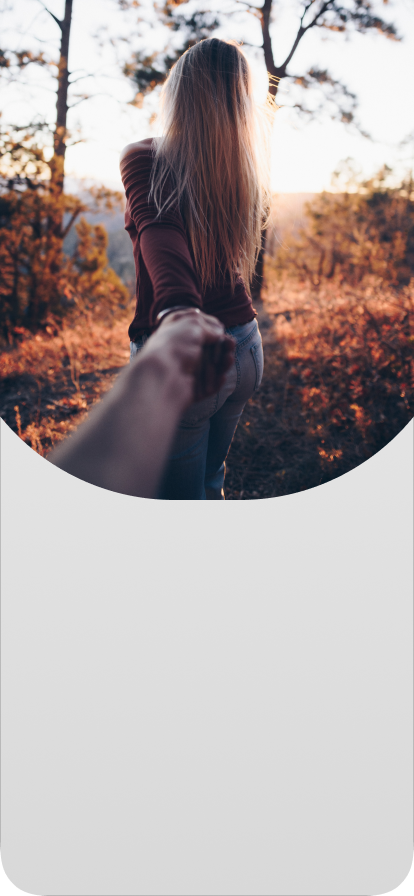
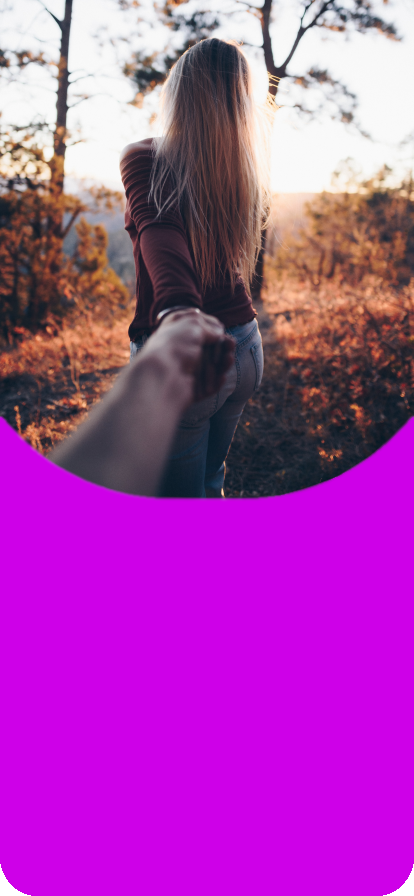
[DEV] Add buttons and change page1 background color

diff --git a/flutter_lovebank/lib/three_page_intro.dart b/flutter_lovebank/lib/three_page_intro.dart
@@ -1,4 +1,5 @@
 import 'package:flutter/material.dart';
+import 'wide_button.dart';
 
 ///The three dot indicator at the bottom of the page.
 ///  Transparent if page is passed in as 0.
@@ -85,6 +86,7 @@ class ThreePageIntro extends StatefulWidget {
   _ThreePageIntroState createState() => _ThreePageIntroState();
 }
 
+///The state of the three page intro screen widget.
 class _ThreePageIntroState extends State<ThreePageIntro> {
   int _page = 1;
 
@@ -97,15 +99,18 @@ class _ThreePageIntroState extends State<ThreePageIntro> {
   Widget build(BuildContext context) {
     Container mainContent = Container();
     String text = "";
+    String imgPath = "";
     if (_page == 1) {
         text = "Improve your relationship with measurable expresions of love";
+        imgPath = "assets/images/intro/intro-1.png";
     }
     if (_page == 2) {
         text = "Increase your love bank account by performing the tasks most important to your partner";
+        imgPath = "assets/images/intro/intro-2.png";
     }
 
     mainContent = Container(
-      padding: EdgeInsets.only(left: 60, right: 60),
+      padding: EdgeInsets.only(left: 60, right: 60, bottom: 60),
       child: Text( text,
         textAlign: TextAlign.center,
         style: TextStyle(
@@ -117,7 +122,27 @@ class _ThreePageIntroState extends State<ThreePageIntro> {
     );
 
     if (_page == 3) {
-        mainContent = Container();
+        mainContent = Container(
+          child: Column(
+            children: [
+              Padding( padding: EdgeInsets.all(10),
+                child: WideButton(
+                  text: "Sign in",
+                  color: Theme.of(context).primaryColor,
+                  onTap: _handleTap,
+                ),
+              ),
+              Padding( padding: EdgeInsets.all(10),
+                child: WideButton(
+                  text: "Create an account",
+                  color: Theme.of(context).accentColor,
+                  onTap: _handleTap,
+                ),
+              ),
+            ],
+          ),
+        );
+        imgPath = "assets/images/intro/intro-3.png";
     }
 
     return GestureDetector(
@@ -126,7 +151,7 @@ class _ThreePageIntroState extends State<ThreePageIntro> {
         child: Container(
           decoration: BoxDecoration(
             image: DecorationImage(
-              image: (_page == 1) ? ExactAssetImage('assets/images/intro/intro-1.png') : ((_page == 2) ? ExactAssetImage('assets/images/intro/intro-2.png') : ExactAssetImage('assets/images/intro/intro-3.png')),
+              image: ExactAssetImage(imgPath),
               fit: BoxFit.cover,
             ),
             color: Theme.of(context).backgroundColor,
@@ -136,8 +161,8 @@ class _ThreePageIntroState extends State<ThreePageIntro> {
             children: [
               mainContent,
               Padding(
-              padding: EdgeInsets.all(50),
-              child: BottomTitleBar(page: _page),
+                padding: EdgeInsets.only(left: 50, right: 50, bottom: 50),
+                child: BottomTitleBar(page: _page),
               ),
             ],
           ),

diff --git a/flutter_lovebank/lib/wide_button.dart b/flutter_lovebank/lib/wide_button.dart
@@ -1,0 +1,32 @@
+import 'package:flutter/material.dart';
+
+///A simple wide button with a few customization options.
+class WideButton extends StatelessWidget {
+  final String text;
+  final Color color;
+  final GestureTapCallback onTap;
+
+  WideButton({this.text, this.color, this.onTap});
+
+  @override
+  Widget build(BuildContext context) {
+    return ButtonTheme(
+      minWidth: 300,
+      height: 50,
+        child: RaisedButton(
+        child: Text(text,
+          style: TextStyle(
+            fontSize: 20,
+            fontFamily: 'Helvetica'
+          ),
+        ),
+        textColor: Colors.white,
+        color: color,
+        onPressed: onTap,
+        shape: RoundedRectangleBorder(
+          borderRadius: BorderRadius.circular(30.0),
+        ),
+      ),
+    );
+  }
+}
